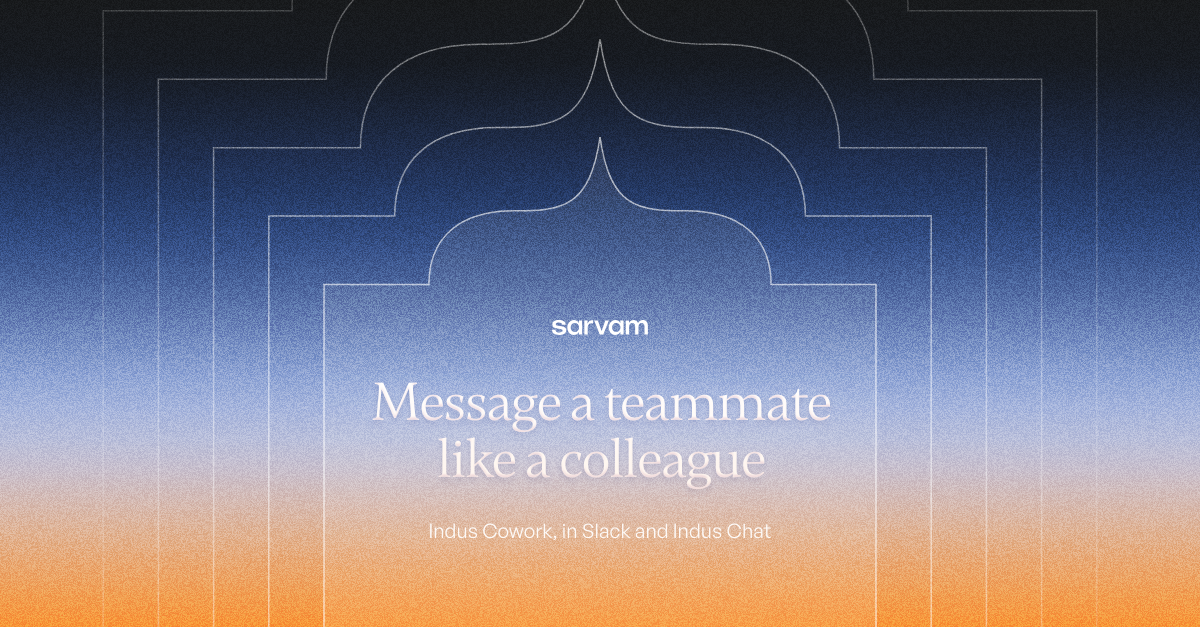
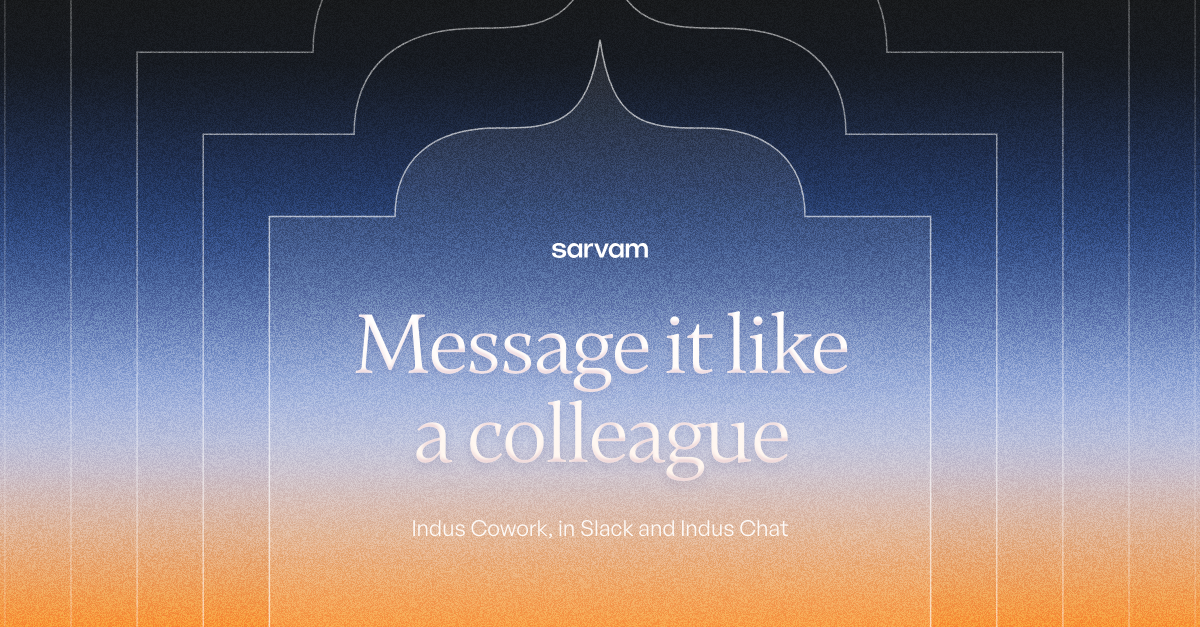
LinkedIn headlines: two lines at full size (wider columns, bigger openings, shorter copy); QA min size

diff --git a/src/components/sarvam/composer.tsx b/src/components/sarvam/composer.tsx
@@ -63,18 +63,18 @@ const EDITORIAL = new Set<Device>(["spectrum"]);
 
 export const SITUATIONS: Record<Situation, BannerSpec> = {
   launch: { situation: "launch", background: "saffron-rose", device: "medallion-glow", shape: "Onion lantern", treatment: "white", mark: "inside", titleStyle: "sans", primary: "Indus Cowork", secondary: "An AI teammate that finishes the work", secondaryPlace: "below" },
-  announcement: { situation: "announcement", background: "dusk", device: "gateway-echo", shape: "Mihrab", treatment: "white", mark: "inside", titleStyle: "serif", primary: "Message a teammate like a colleague", secondary: "Indus Cowork, in Slack and Indus Chat", secondaryPlace: "below" },
+  announcement: { situation: "announcement", background: "dusk", device: "gateway-echo", shape: "Mihrab", treatment: "white", mark: "inside", titleStyle: "serif", primary: "Message it like a colleague", secondary: "Indus Cowork, in Slack and Indus Chat", secondaryPlace: "below" },
   milestone: { situation: "milestone", background: "night", device: "medallion-glow", shape: "Scalloped medallion", treatment: "gold", mark: "bottom", titleStyle: "serif", primary: "100+", primaryIsNumber: true, secondary: "apps your teammates can work in", secondaryPlace: "below" },
   funding: { situation: "funding", background: "olive", device: "medallion-glow", shape: "Onion lantern", treatment: "gold", mark: "inside", titleStyle: "serif", primary: "$300 Million", primaryIsNumber: true, secondary: "Announcing Series B", secondaryPlace: "above" },
   event: { situation: "event", background: "spring", device: "gloss", treatment: "indigo", mark: "top", titleStyle: "serif", primary: "Build your first teammate", secondary: "A live Indus Cowork session", secondaryPlace: "below" },
-  story: { situation: "story", background: "lavender-dusk", device: "medallion-glow", shape: "Scalloped medallion", treatment: "ink", mark: "inside", titleStyle: "serif", primary: "Your newest colleague lives in Slack." },
-  partnership: { situation: "partnership", background: "lavender-dusk", device: "medallion-glow", shape: "Ogee cross", treatment: "ink", mark: "inside", partner: "Partner", titleStyle: "serif", primary: "Shipping faster with Indus Cowork" },
+  story: { situation: "story", background: "lavender-dusk", device: "medallion-glow", shape: "Scalloped medallion", treatment: "ink", mark: "inside", titleStyle: "serif", primary: "Your colleague in Slack" },
+  partnership: { situation: "partnership", background: "lavender-dusk", device: "medallion-glow", shape: "Ogee cross", treatment: "ink", mark: "inside", partner: "Partner", titleStyle: "serif", primary: "Shipping faster, together" },
   program: { situation: "program", layout: "split", background: "plain", device: "gloss", treatment: "ink", mark: "inside", titleStyle: "serif", primary: "Indus Cowork early access", secondary: "Talk to us about your team's workflows", secondaryPlace: "below" },
   capability: { situation: "capability", background: "indigo-glow", device: "emblem", shape: "Scalloped medallion", icon: "shield", treatment: "white", mark: "inside", titleStyle: "serif", primary: "Every task leaves a trail", secondary: "Audit logs, SSO and role-based access", secondaryPlace: "below" },
-  product: { situation: "product", background: "dusk", device: "arch-window", shape: "Mihrab", treatment: "white", mark: "inside", titleStyle: "serif", primary: "It plans the work before it starts", secondary: "Every request becomes a to-do list", secondaryPlace: "below" },
+  product: { situation: "product", background: "dusk", device: "arch-window", shape: "Mihrab", treatment: "white", mark: "inside", titleStyle: "serif", primary: "It plans the work first", secondary: "Every request becomes a to-do list", secondaryPlace: "below" },
   spectrum: { situation: "spectrum", background: "plain", device: "spectrum", rosette: "lens", rosetteSolid: true, treatment: "ink", mark: "top", titleStyle: "serif", primary: "Work that runs on schedule", secondary: "Indus Cowork teammates run scheduled tasks", secondaryPlace: "below" },
   sunrise: { situation: "sunrise", background: "plain", device: "spectrum", ornament: "lotus", place: "rise", petals: 7, horizon: "bottom", divider: "Scroll fan", treatment: "ink", mark: "top", titleStyle: "serif", primary: "Research, built in", secondary: "Indus Cowork searches the web for you", secondaryPlace: "below" },
-  mission: { situation: "mission", background: "olive", device: "script-mandala", treatment: "white", mark: "inside", titleStyle: "serif", primary: "AI for all from India" },
+  mission: { situation: "mission", background: "olive", device: "script-mandala", treatment: "white", mark: "top", titleStyle: "serif", primary: "AI for all from India" },
 };
 
 /* ── Carved layer palettes (radial core → edge per band). Brand ramps only. ── */
@@ -225,7 +225,7 @@ function renderDevice(spec: BannerSpec, F: Frame, id: string, beside = false, _f
     const preset = GATEWAY_PRESETS[name] ?? GATEWAY_PRESETS["Domed door"];
     const g = gatewayPath({ ...preset, bottom: "flat", notch: 0, frame: 0, aspect: land ? 0.82 : f === "square" ? 1.02 : 1.24 });
     // Sized by width so the opening is generous; anchored to the bottom edge.
-    const s = Math.min((land ? F.W * 0.5 : F.W * 0.66) / g.width, (F.H * 0.86) / g.height), w = g.width * s, h = g.height * s;
+    const s = Math.min((land ? F.W * 0.6 : F.W * 0.66) / g.width, (F.H * (land ? 0.94 : 0.86)) / g.height), w = g.width * s, h = g.height * s;
     const x = (F.W - w) / 2, y = F.H - h + 2;
     const d = fitPath(g, s, x, y);
     const open = innerRect(d, F.W / 2, y + h * (land ? 0.6 : 0.64), textAspect);
@@ -302,9 +302,9 @@ function renderDevice(spec: BannerSpec, F: Frame, id: string, beside = false, _f
       });
       return { layer: <>{one}</>, open: { x: F.W * 0.2, y: F.H * 0.2, w: F.W * 0.6, h: F.H * 0.6 }, lightInside: true };
     }
-    const unit = land ? 130 : 200;
+    const unit = land ? 118 : 200;
     const sides = [-1, 1];
-    const cx0 = land ? 200 : F.W / 2 - 230, cy0 = land ? F.H / 2 + 10 : F.H * (f === "portrait" ? 0.7 : 0.72);
+    const cx0 = land ? 150 : F.W / 2 - 230, cy0 = land ? F.H / 2 + 10 : F.H * (f === "portrait" ? 0.7 : 0.72);
     const els = sides.flatMap((side, si) => items.map(([key, palette, dx, dy, s], j) => {
       const [kind, name] = key.split(":");
       const geom = kind === "m" ? medallionPath(MEDALLION_PRESETS[name]) : flowerPath(FLOWER_PRESETS[name]);
@@ -314,7 +314,7 @@ function renderDevice(spec: BannerSpec, F: Frame, id: string, beside = false, _f
       const html = glossSVG(geom, palette, `${id}-g${si}${j}`).replace("<svg ", '<svg width="100%" height="100%" ');
       return <div key={`${si}-${j}`} aria-hidden style={{ position: "absolute", left: cx - size / 2, top: cy - size / 2, width: size, height: size }} dangerouslySetInnerHTML={{ __html: html }} />;
     }));
-    const open: Rect = land ? { x: 360, y: F.M, w: F.W - 720, h: F.H - F.M * 2 } : { x: F.M, y: F.M + 60, w: safe.w, h: cy0 - unit * 0.75 - F.M - 60 };
+    const open: Rect = land ? { x: 290, y: F.M, w: F.W - 580, h: F.H - F.M * 2 } : { x: F.M, y: F.M + 60, w: safe.w, h: cy0 - unit * 0.75 - F.M - 60 };
     return { layer: <>{els}</>, open, lightInside: true };
   }
   return { layer: null, open: { ...safe, y: safe.y + 40, h: safe.h - 40 }, lightInside: !DARK_BG.has(spec.background) };
@@ -636,11 +636,12 @@ function scriptMandalaDevice(spec: BannerSpec, F: Frame, id: string, beside: boo
   const R = beside ? Math.min(F.W * 0.5 - F.M * 0.5, F.H * 0.62) : (F.W - F.M * 3) / 2;
   const cx = F.W / 2, cy = F.H / 2;
   const fs = R * 0.075, ink = dark ? "#ffffff" : PAL[spec.background].shadow;
-  const rings = [
-    { r: R - fs * 0.9, n: 18, op: 0.42 },
-    { r: R * 0.79 - fs * 0.6, n: 13, op: 0.62 },
-  ];
-  const disc = R * 0.6;
+  // Meta holds the headline in the disc, so it keeps one ring of scripts and a larger disc (type stays large);
+  // LinkedIn (logomark in the centre) keeps both rings.
+  const rings = beside
+    ? [{ r: R - fs * 0.9, n: 18, op: 0.42 }, { r: R * 0.79 - fs * 0.6, n: 13, op: 0.62 }]
+    : [{ r: R - fs * 0.9, n: 18, op: 0.55 }];
+  const disc = R * (beside ? 0.6 : 0.76);
   const words = rings.flatMap(({ r, n, op }, ri) => Array.from({ length: n }, (_, i) => {
     const a = (360 / n) * i + (ri ? 360 / n / 2 : 0);
     const S = SCRIPT_WORDS[(i + ri * 4) % SCRIPT_WORDS.length];
@@ -650,7 +651,7 @@ function scriptMandalaDevice(spec: BannerSpec, F: Frame, id: string, beside: boo
   // Dots between words on the outer ring, circles between rings: the mandala's construction lines.
   const n0 = rings[0].n;
   const dots = Array.from({ length: n0 }, (_, i) => { const a = ((360 / n0) * (i + 0.5) * Math.PI) / 180; return <circle key={i} cx={cx + Math.sin(a) * rings[0].r} cy={cy - Math.cos(a) * rings[0].r} r={fs * 0.09} fill={ink} opacity={0.5} />; });
-  const lines = [R, R * 0.79 + fs * 0.25, (R * 0.79 + disc) / 2 + fs * 0.6].map((r, i) => <circle key={i} cx={cx} cy={cy} r={r} fill="none" stroke={ink} strokeOpacity={0.3 - i * 0.05} strokeWidth={1.5} />);
+  const lines = (beside ? [R, R * 0.79 + fs * 0.25, (R * 0.79 + disc) / 2 + fs * 0.6] : [R, R - fs * 1.85]).map((r, i) => <circle key={i} cx={cx} cy={cy} r={r} fill="none" stroke={ink} strokeOpacity={0.3 - i * 0.05} strokeWidth={1.5} />);
   const layer = (
     <svg width={F.W} height={F.H} style={{ position: "absolute", inset: 0, overflow: "visible" }} aria-hidden>
       <defs>
@@ -722,7 +723,9 @@ function BannerImpl({ spec, format, id }: { spec: BannerSpec; format: BannerForm
   const centreMark = spec.device === "script-mandala" && layout !== "centered";   // the logomark already sits in the mandala's centre
   const markW = land ? 96 : 124, markSpace = !centreMark && (spec.mark === "top" || spec.mark === "inside") ? (land ? 52 : 72) : 0;
   const editorial = layout === "editorial";
-  const dev = layout === "centered" || editorial ? { x: 0, y: 0, w: F.W, h: F.H } : layout === "split" ? { x: F.W * 0.47, y: 0, w: F.W * 0.53, h: F.H } : { x: 0, y: F.H * 0.44, w: F.W, h: F.H * 0.56 };
+  // Split (LinkedIn): the text column is 56% so a headline holds two lines at full size (type never shrinks to obey the line cap).
+  const SPLIT = 0.56;
+  const dev = layout === "centered" || editorial ? { x: 0, y: 0, w: F.W, h: F.H } : layout === "split" ? { x: F.W * SPLIT, y: 0, w: F.W * (1 - SPLIT), h: F.H } : { x: 0, y: F.H * 0.44, w: F.W, h: F.H * 0.56 };
   const D = renderDevice(spec, { W: dev.w, H: dev.h, M: F.M }, id, layout !== "centered", format);
   // Editorial: one left column (≥ 1.5·M from the sides), anchored to the bottom of the space the device leaves.
   const edBottom = Math.min(D.open.y + D.open.h, F.H - F.M) - (spec.device === "spectrum" && D.open.y + D.open.h >= F.H - F.M * 2 ? (land ? 44 : 64) : 0);
@@ -730,7 +733,7 @@ function BannerImpl({ spec, format, id }: { spec: BannerSpec; format: BannerForm
   let open: Rect = editorial ? { x: edLeft, y: edTop, w: edRight - edLeft, h: edBottom - edTop }
     : layout === "centered" ? D.open
     // Split: an editorial column from the top (gradients lighten toward the bottom, so the text stays on the deep part).
-    : layout === "split" ? { x: F.M, y: F.M + markSpace + (markSpace ? 12 : 0), w: F.W * 0.47 - F.M - 16, h: F.H - F.M * 2 - markSpace - (markSpace ? 12 : 0) }
+    : layout === "split" ? { x: F.M, y: F.M + markSpace + (markSpace ? 12 : 0), w: F.W * SPLIT - F.M - 16, h: F.H - F.M * 2 - markSpace - (markSpace ? 12 : 0) }
     : { x: F.M, y: F.M + markSpace, w: F.W - F.M * 2, h: F.H * 0.44 - F.M - markSpace - 8 };
   const layer = <div style={{ position: "absolute", left: dev.x, top: dev.y, width: dev.w, height: dev.h }}>{D.layer}{spec.card && layout !== "centered" && spec.device !== "arch-window" && <CardSlot kind={spec.card} area={{ w: dev.w, h: dev.h }} />}</div>;
   const lightInside = layout === "centered" ? D.lightInside : !DARK_BG.has(spec.background);
@@ -747,7 +750,8 @@ function BannerImpl({ spec, format, id }: { spec: BannerSpec; format: BannerForm
     const ps = base.p * k, ss = Math.max(base.s * k, land ? 20 : 28);   // the supporting line never drops below its floor, so measure it at the floor
     const cw = ps * charW(pFont, pWeight, spec.primary);
     const plines = balanceLines(spec.primary, Math.max(4, Math.floor(open.w / cw)));
-    const pl = Math.max(...plines.map((l) => l.length)) * cw > open.w * 0.98 || plines.length > 3 ? 99 : plines.length;   // too wide, or more than 3 lines → too big
+    const maxLines = land ? 2 : 3;                                // LinkedIn: the headline is always ≤ 2 lines; Meta ≤ 3
+    const pl = Math.max(...plines.map((l) => l.length)) * cw > open.w * 0.98 || plines.length > maxLines ? 99 : plines.length;   // too wide, or too many lines → too big
     const sl = spec.secondary ? balanceLines(spec.secondary, Math.max(6, Math.floor((open.w * 0.9) / (ss * charW(num ? "display" : "text", 400, spec.secondary))))).length : 0;
     const markH = spec.mark === "inside" && layout === "centered" ? (spec.logo === "logomark" ? markW * 0.55 : land ? 16 : 20) + base.gap * 0.7 : 0;
     const divH = spec.divider ? dividerW * (55 / 400) + base.gap : 0;

diff --git a/design-system/design.md b/design-system/design.md
@@ -1886,7 +1886,7 @@ Use only these claims.
 | Card title | 15 characters | 1 line |
 | Card description | 54–58 characters | 2 lines; siblings ±4 characters |
 | Lead | 160 characters | ≤ 4 lines on phone |
-| Banner headline | 8 words / 40 characters | ≤ 3 lines (Meta), ≤ 2 lines (LinkedIn) |
+| Banner headline | 8 words / 40 characters; ~26 characters when it sits inside a shape on LinkedIn | ≤ 3 lines (Meta), ≤ 2 lines (LinkedIn), at full size |
 | Banner subhead | 70 characters | 1–2 lines |
 | Eyebrow | 24 characters | uppercase via CSS, written in sentence case |
 
@@ -1941,7 +1941,7 @@ Every Sarvam banner is a **composition of a few choices + at most two lines of t
 | 4 | **Never stretch** | Uniform scale only. Medallions are 1:1; gateways change structure per format, never scale |
 | 5 | **Padding** | ≥ 1.5 × margin of clear space on both sides (Meta 108px, LinkedIn 84px). Meta: the shape sits fully inside (≥ 72px top and bottom). LinkedIn may bleed off the top and bottom only |
 | 6 | **Text lives inside the shape** | In the largest rectangle inside the shape's measured outline, inset from the glow |
-| 7 | **Fixed type steps** | Headline = the largest of 100 / 86 / 74 / 64 / 55 / 48 % of the format base that fits (base Meta: sans 124, serif 132, number 270 · LinkedIn: sans 92, serif 100, number 170). Max 3 lines. Supporting line ≥ 28px Meta / 20px LinkedIn |
+| 7 | **Fixed type steps** | Headline = the largest of 100 / 86 / 74 / 64 / 55 / 48 % of the format base that fits (base Meta: sans 124, serif 132, number 270 · LinkedIn: sans 92, serif 100, number 170). Headline max **3 lines on Meta, 2 lines on LinkedIn** (every layout), and never set below **96px on Meta / 72px on LinkedIn**: if it won't fit, make room (wider text column, bigger opening) or shorten the copy, never shrink the type (QA fails otherwise). Supporting line ≥ 28px Meta / 20px LinkedIn |
 | 8 | **Sharp, not soft** | Every shape has a crisp edge. Inner glow blur ≤ 3.5% of the shape size. No white blobs, no cloud device. Mesh shapes (gloss device): a two-tone fill + an inner shadow in a contrasting hue + a soft centre light; **no drop shadows, no highlight blobs** |
 | 12 | **One message per banner** | Every banner in a set says something different; facts only from `voice.md` §5 |
 | 9 | **Logo** | Official files only. Wordmark 124px (Meta) / 96px (LinkedIn), **or** the logomark alone (height 0.55× that), never both. White on dark, black on light, or none. Partner lockups always use the wordmark |
@@ -2007,7 +2007,7 @@ Every Sarvam banner is a **composition of a few choices + at most two lines of t
 |---|---|---|
 | `centered` | text inside the device | same |
 | `editorial` | one left column (≥ 1.5·M from the sides) anchored low, wordmark top-left aligned to the column, type base ×1.3 | same |
-| `split` | text left (left-aligned), device right 53% | becomes **stacked** |
+| `split` | text left (left-aligned, 56% column so a headline holds two lines at full size), device right 44% | becomes **stacked** |
 | `stacked` | becomes **split** | text top 44%, device bottom 56% |
 
 #### Slots (not text sections)

diff --git a/design-system/recipes/banner-builder.md b/design-system/recipes/banner-builder.md
@@ -17,7 +17,7 @@ Every Sarvam banner is a **composition of a few choices + at most two lines of t
 | 4 | **Never stretch** | Uniform scale only. Medallions are 1:1; gateways change structure per format, never scale |
 | 5 | **Padding** | ≥ 1.5 × margin of clear space on both sides (Meta 108px, LinkedIn 84px). Meta: the shape sits fully inside (≥ 72px top and bottom). LinkedIn may bleed off the top and bottom only |
 | 6 | **Text lives inside the shape** | In the largest rectangle inside the shape's measured outline, inset from the glow |
-| 7 | **Fixed type steps** | Headline = the largest of 100 / 86 / 74 / 64 / 55 / 48 % of the format base that fits (base Meta: sans 124, serif 132, number 270 · LinkedIn: sans 92, serif 100, number 170). Max 3 lines. Supporting line ≥ 28px Meta / 20px LinkedIn |
+| 7 | **Fixed type steps** | Headline = the largest of 100 / 86 / 74 / 64 / 55 / 48 % of the format base that fits (base Meta: sans 124, serif 132, number 270 · LinkedIn: sans 92, serif 100, number 170). Headline max **3 lines on Meta, 2 lines on LinkedIn** (every layout), and never set below **96px on Meta / 72px on LinkedIn**: if it won't fit, make room (wider text column, bigger opening) or shorten the copy, never shrink the type (QA fails otherwise). Supporting line ≥ 28px Meta / 20px LinkedIn |
 | 8 | **Sharp, not soft** | Every shape has a crisp edge. Inner glow blur ≤ 3.5% of the shape size. No white blobs, no cloud device. Mesh shapes (gloss device): a two-tone fill + an inner shadow in a contrasting hue + a soft centre light; **no drop shadows, no highlight blobs** |
 | 12 | **One message per banner** | Every banner in a set says something different; facts only from `voice.md` §5 |
 | 9 | **Logo** | Official files only. Wordmark 124px (Meta) / 96px (LinkedIn), **or** the logomark alone (height 0.55× that), never both. White on dark, black on light, or none. Partner lockups always use the wordmark |
@@ -83,7 +83,7 @@ Every Sarvam banner is a **composition of a few choices + at most two lines of t
 |---|---|---|
 | `centered` | text inside the device | same |
 | `editorial` | one left column (≥ 1.5·M from the sides) anchored low, wordmark top-left aligned to the column, type base ×1.3 | same |
-| `split` | text left (left-aligned), device right 53% | becomes **stacked** |
+| `split` | text left (left-aligned, 56% column so a headline holds two lines at full size), device right 44% | becomes **stacked** |
 | `stacked` | becomes **split** | text top 44%, device bottom 56% |
 
 ### Slots (not text sections)

diff --git a/process/prompt-log.md b/process/prompt-log.md
@@ -490,3 +490,21 @@ Entry format:
 - Found and fixed: the `product` preset had been dropped by accident in the spectrum-family commit (05ccb5c); restored.
 - Product: the arch window keeps its design; the product card inside is now optional and off, so it's a lit, empty doorway.
 - QA: set + 28 preset renders PASS.
+
+## 2026-11-04 — LinkedIn headlines: two lines, at full size
+- Prompts (verbatim): [event + capability preset screenshots] "in this the landscape ones should have only the title in two lines." → "The text should not get smaller. It should be visually proper only."
+- Rule: LinkedIn headlines ≤ 2 lines in every layout (Meta ≤ 3).
+- My first fix let the type step down to fit two lines. Malay rejected it: the type shrank (event 100 → 86px, capability → 86px, product 64px, slack 55px).
+- Second fix — make room, don't shrink:
+  - The LinkedIn split text column went from 47% to 56%.
+  - The gloss clusters moved outward (text box 480 → 620px).
+  - The LinkedIn gateway grew (0.5 W → 0.6 W, 0.86 H → 0.94 H).
+  - The Meta script mandala keeps one ring and a 0.76 R disc, with the wordmark moved to the top.
+  - Copy that was simply too long for two lines was shortened, still using voice.md facts:
+    - "Message it like a colleague"
+    - "It plans the work first"
+    - "Your colleague in Slack"
+    - "Shipping faster, together"
+    - sovereign: "Sarvam's own models" / "Indus Cowork, with data residency in India"
+- QA now enforces it: the headline is ≤ 2 lines on LinkedIn and set at ≥ 72px (LinkedIn) / 96px (Meta). Otherwise it fails with "shorten the copy, don't shrink the type".
+- Result: all 13 presets × 2 formats + the full set PASS; the set is re-exported.

diff --git a/design-system/voice.md b/design-system/voice.md
@@ -113,7 +113,7 @@ Use only these claims.
 | Card title | 15 characters | 1 line |
 | Card description | 54–58 characters | 2 lines; siblings ±4 characters |
 | Lead | 160 characters | ≤ 4 lines on phone |
-| Banner headline | 8 words / 40 characters | ≤ 3 lines (Meta), ≤ 2 lines (LinkedIn) |
+| Banner headline | 8 words / 40 characters; ~26 characters when it sits inside a shape on LinkedIn | ≤ 3 lines (Meta), ≤ 2 lines (LinkedIn), at full size |
 | Banner subhead | 70 characters | 1–2 lines |
 | Eyebrow | 24 characters | uppercase via CSS, written in sentence case |
 
